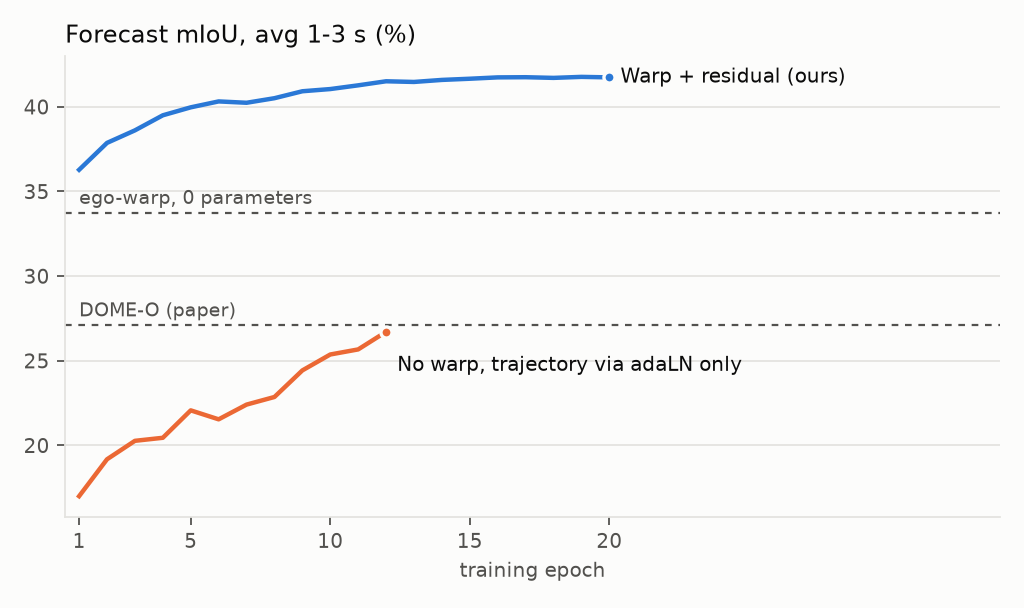
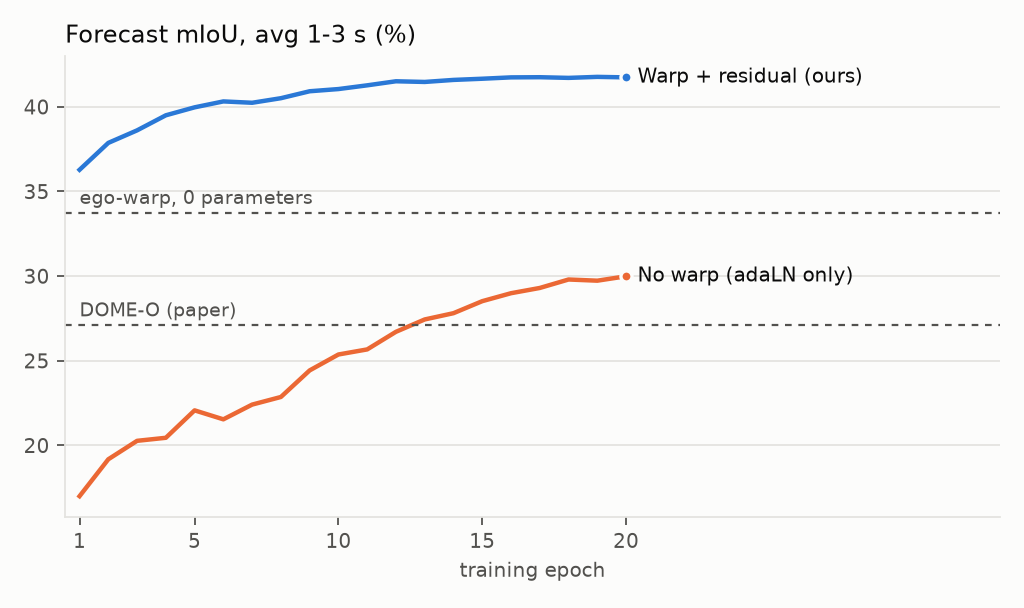
Finish no-warp ablation: full-val result, 20-epoch curve, README
Same model and schedule without the warp: 30.15 mIoU / 41.56 IoU on full val vs 41.92 / 50.54
with it. Beats DOME-O (27.10) but stays below the zero-parameter ego-warp (33.74).

diff --git a/scripts/plot_results.py b/scripts/plot_results.py
@@ -107,17 +107,16 @@ def ablation_chart():
     warp = json.load(open(RES / "forecast_warp.json"))["miou_1s_2s_3s_avg"][3]
     fig, ax = plt.subplots(figsize=(6.4, 3.8), facecolor=SURFACE)
     style(ax)
-    for key, label, c in (("wm", "Warp + residual (ours)", BLUE), ("wm_nowarp", "No warp, trajectory via adaLN only", ORANGE)):
+    for key, label, c in (("wm", "Warp + residual (ours)", BLUE), ("wm_nowarp", "No warp (adaLN only)", ORANGE)):
         ep = [r["epoch"] for r in curves[key]]
         v = [r["val_miou_avg"] for r in curves[key]]
         ax.plot(ep, v, color=c, lw=2)
         ax.plot([ep[-1]], [v[-1]], "o", ms=5, color=c, mec=SURFACE, mew=1.5, zorder=5)
-        # below its end point for the no-warp curve, which ends right on the DOME reference line
-        ax.text(ep[-1] + 0.4, v[-1] + (0.0 if key == "wm" else -2.0), label, va="center", fontsize=9, color=INK)
+        ax.text(ep[-1] + 0.4, v[-1], label, va="center", fontsize=9, color=INK)
     for y, label in ((warp, "ego-warp, 0 parameters"), (27.10, "DOME-O (paper)")):
         ax.axhline(y, color=INK2, lw=1, ls=(0, (3, 3)))
         ax.annotate(label, (1, y), xytext=(0, 4), textcoords="offset points", fontsize=8.5, color=INK2)
-    ax.set_xlim(0.5, 34)
+    ax.set_xlim(0.5, 33)
     ax.set_xticks([1, 5, 10, 15, 20])
     ax.set_xlabel("training epoch", fontsize=9, color=INK2)
     ax.set_title("Forecast mIoU, avg 1-3 s (%)", loc="left", fontsize=11, color=INK)

diff --git a/README.md b/README.md
@@ -18,6 +18,7 @@ A world model that forecasts how the 3D semantic occupancy around a self-driving
 | OccWorld-O ([paper](https://arxiv.org/abs/2311.16038)) | predicted | 25.78 / 15.14 / 10.51 | 17.14 | 34.63 / 25.07 / 20.18 | 26.63 |
 | DOME-O ([paper](https://arxiv.org/abs/2410.10429)) | ✓ | 35.11 / 25.89 / 20.29 | 27.10 | 43.99 / 35.36 / 29.74 | 36.36 |
 | Ego-warp baseline (0 parameters) | ✓ | 40.94 / 32.52 / 27.77 | 33.74 | 50.41 / 41.54 / 36.27 | 42.74 |
+| This model without the warp (ablation) | ✓ | 35.90 / 29.34 / 25.20 | 30.15 | 46.67 / 41.05 / 36.95 | 41.56 |
 | **This model** | ✓ | **49.25 / 40.94 / 35.57** | **41.92** | **55.79 / 49.98 / 45.87** | **50.54** |
 
 Copy-last-frame reproduces the published Copy&Paste row (11.33 / 20.52) to within 0.06, which checks that the evaluation matches the papers'. Training took 1.5 h (tokenizer, 4×A100) plus 3.3 h (world model, 4×H200); DOME reports 2,000 epochs on 32 RTX 4090s.
@@ -53,7 +54,7 @@ In the ego frame, most of what "changes" between now and 3 s from now is the car
 
 <p align="center"><img src="assets/ablation_warp.png" width="62%" alt="Training curves with and without the warp"></p>
 
-Ablation: the same architecture trained with the warp disabled (trajectory fed only through adaLN conditioning, as in DOME) reaches 26.7 mIoU after 12 epochs, against 41.5 with the warp at the same epoch. Same data, same batch size, same validation subset. The no-warp run lands right around DOME's number, which suggests the gap comes from where the trajectory enters the model, not from model size or training budget.
+Ablation: the same architecture, data, batch size and 20-epoch schedule, with the warp switched off, so the trajectory enters only through adaLN conditioning, as in DOME. On the full val set it reaches **30.15 mIoU / 41.56 IoU, against 41.92 / 50.54 with the warp**. It still beats DOME's published 27.10, but it never catches up with the zero-parameter ego-warp (33.74). Without the warp, the network has to learn the geometry of its own motion from data, and after 20 epochs it still does that worse than a fixed resampling. Giving it the warp explicitly is worth 11.8 mIoU here. (Curves: every 8th val window, evaluated after each epoch.)
 
 ## Does the forecast follow the plan?
 
